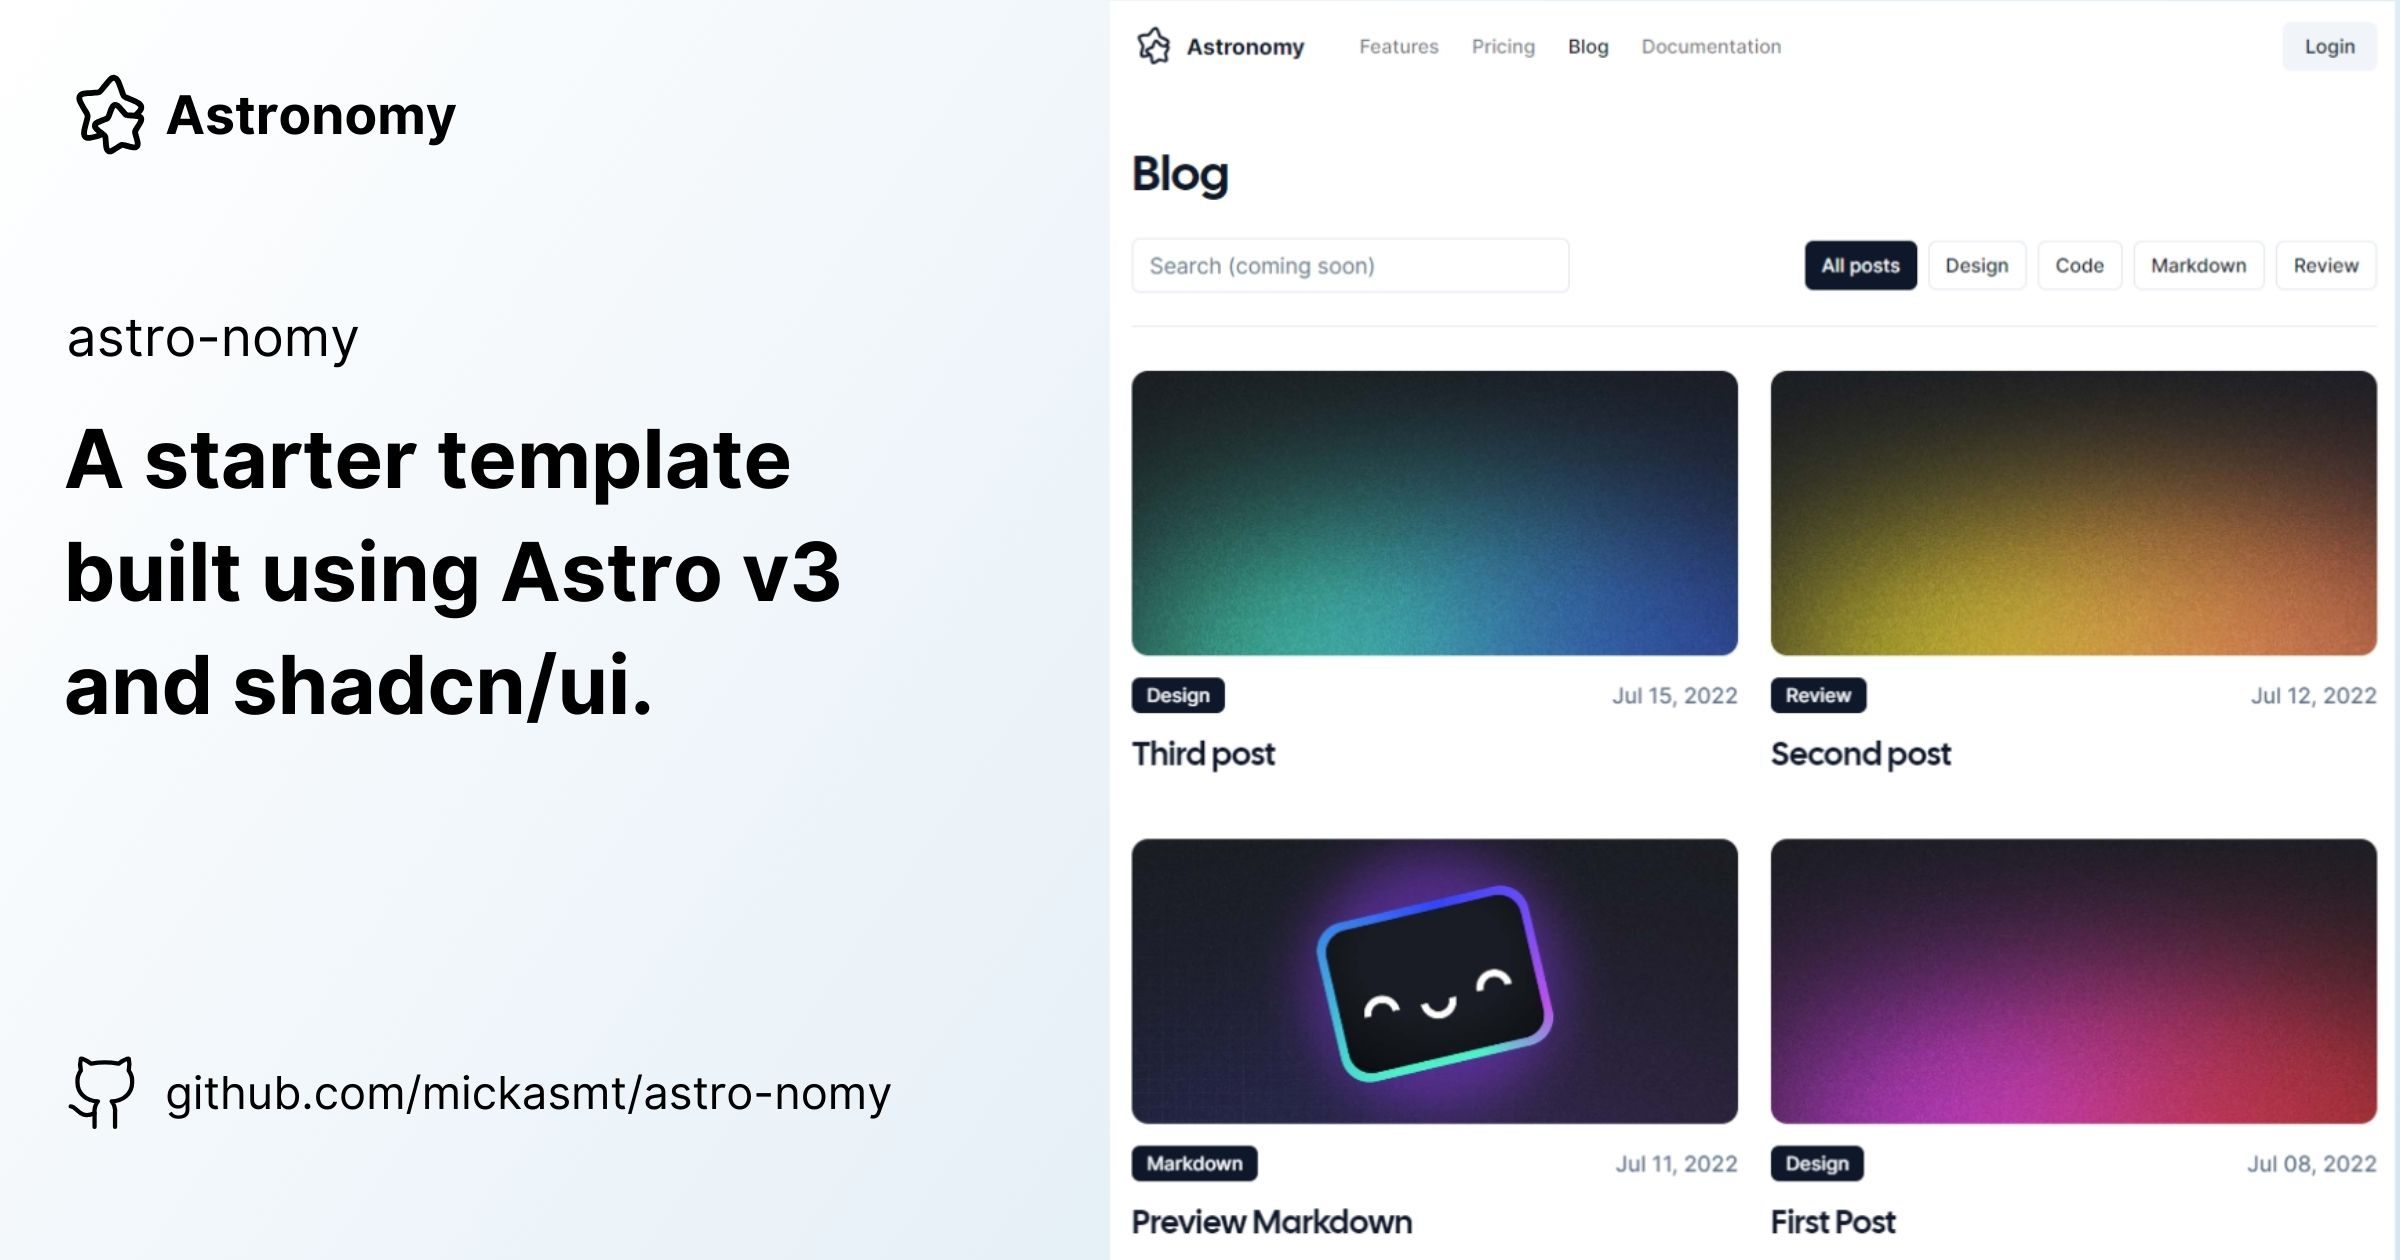
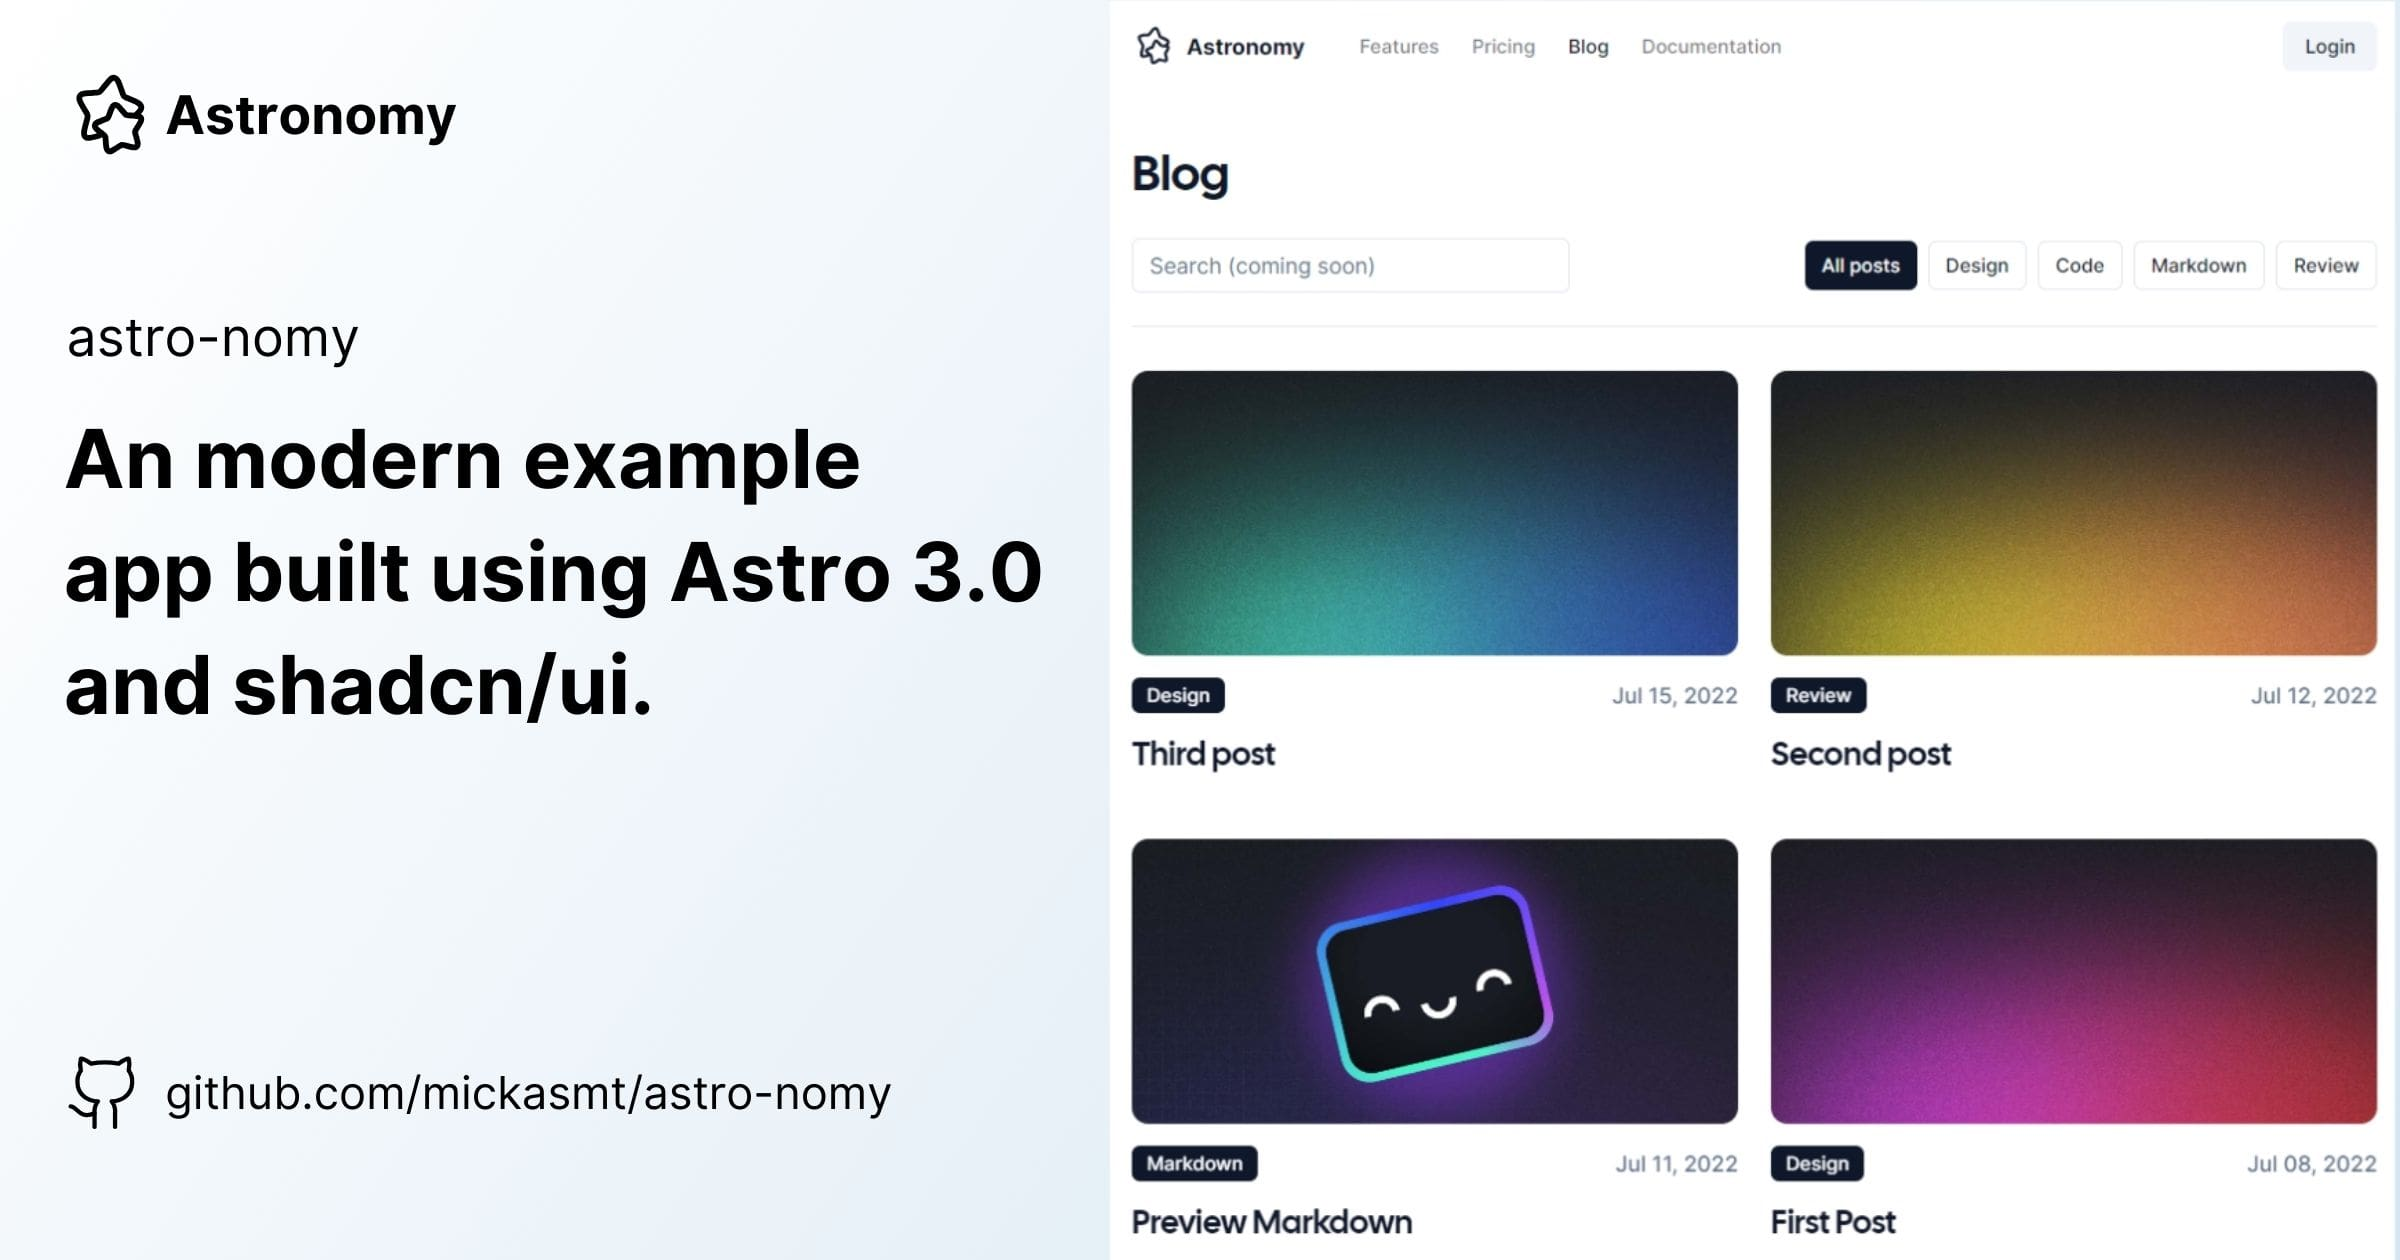
docs: update og & readme/licence

Changed region(s): [[0.0312, 0.4333, 0.4375, 0.4952], [0.0312, 0.3405, 0.375, 0.4024]]

diff --git a/README.md b/README.md
@@ -1,68 +1,99 @@
-# Astro Starter Kit: Blog
+# Astronomy
 
-```
-npm create astro@latest -- --template blog
-```
+An open source application and starter template built using the latest features in Astro v3.
 
-[![Open in StackBlitz](https://developer.stackblitz.com/img/open_in_stackblitz.svg)](https://stackblitz.com/github/withastro/astro/tree/latest/examples/blog)
-[![Open with CodeSandbox](https://assets.codesandbox.io/github/button-edit-lime.svg)](https://codesandbox.io/p/sandbox/github/withastro/astro/tree/latest/examples/blog)
-[![Open in GitHub Codespaces](https://github.com/codespaces/badge.svg)](https://codespaces.new/withastro/astro?devcontainer_path=.devcontainer/blog/devcontainer.json)
+![blog](public/og.jpg)
 
-> 🧑🚀 **Seasoned astronaut?** Delete this file. Have fun!
 
-![blog](https://github.com/withastro/astro/assets/2244813/ff10799f-a816-4703-b967-c78997e8323d)
+> **Warning**
+> This app is a work in progress. 
+> I'm building this in public. You can follow the progress on Twitter [@miickasmt](https://twitter.com/miickasmt).
+> See the roadmap below.
 
-Features:
+## About this project
 
-- ✅ Minimal styling (make it your own!)
-- ✅ 100/100 Lighthouse performance
-- ✅ SEO-friendly with canonical URLs and OpenGraph data
-- ✅ Sitemap support
-- ✅ RSS Feed support
-- ✅ Markdown & MDX support
+This project as an experiment to see how a modern app (with features like authentication, subscriptions, API routes, Markdown, Content Collections ...etc) would work in Astro 3.0 and shadcn/ui.
 
-## 🚀 Project Structure
+> **Warning**
+> I would like to inform you that for the time being, my example app built with Astro.js is still under development and **cannot yet be considered a starter template**.
 
-Inside of your Astro project, you'll see the following folders and files:
+## Project Structure
 
 ```
 ├── public/
+│   └── fonts/
 ├── src/
-│   ├── components/
-│   ├── content/
-│   ├── layouts/
-│   └── pages/
+│   ├── components/
+│   ├── config/
+│   ├── content/
+│   ├── hooks/
+│   ├── icons/
+│   ├── layouts/
+│   ├── lib/
+│   ├── pages/
+│   ├── styles/
+│   └── types/
 ├── astro.config.mjs
 ├── README.md
 ├── package.json
+├── tailwind.config.cjs
 └── tsconfig.json
 ```
 
-Astro looks for `.astro` or `.md` files in the `src/pages/` directory. Each page is exposed as a route based on its file name.
+## Features
 
-There's nothing special about `src/components/`, but that's where we like to put any Astro/React/Vue/Svelte/Preact components.
+- Config files
+- Views Transitions
+- Routing and Layouts
+- React components & hooks
+- UI Components built using **shadcn/ui**
+- Documentation and blog using **MDX** and **Content Collections**
+- Styled using **Tailwind CSS**
+- Validations using **Zod**
+- Written in **TypeScript**
+- Minimal styling (make it your own!)
+- 100/100 Lighthouse performance
 
-The `src/content/` directory contains "collections" of related Markdown and MDX documents. Use `getCollection()` to retrieve posts from `src/content/blog/`, and type-check your frontmatter using an optional schema. See [Astro's Content Collections docs](https://docs.astro.build/en/guides/content-collections/) to learn more.
+*Not implemented yet :*
+- RSS Feed support
+- Sitemap support
+- Data Fetching
+- SEO component 
+- API Routes and Middlewares
+- Authentication using **Auth.js**
+- ORM using **Prisma**
+- Database on **PlanetScale**
+- Subscriptions using **Stripe**
 
-Any static assets, like images, can be placed in the `public/` directory.
+## Roadmap
 
-## 🧞 Commands
+- [x] ~Dark mode~
+- [x] ~Add Markdown & MDX support~
+- [ ] Build **auth pages**
+- [ ] Build **dashboard pages**
+- [ ] Add OG image for blog and others
+- [ ] Add SEO component & metadata 
+- [ ] Subscriptions using Stripe
 
-All commands are run from the root of the project, from a terminal:
 
-| Command                   | Action                                           |
-| :------------------------ | :----------------------------------------------- |
-| `npm install`             | Installs dependencies                            |
-| `npm run dev`             | Starts local dev server at `localhost:4321`      |
-| `npm run build`           | Build your production site to `./dist/`          |
-| `npm run preview`         | Preview your build locally, before deploying     |
-| `npm run astro ...`       | Run CLI commands like `astro add`, `astro check` |
-| `npm run astro -- --help` | Get help using the Astro CLI                     |
+## Running Locally
 
-## 👀 Want to learn more?
+1. Install dependencies using pnpm:
 
-Check out [our documentation](https://docs.astro.build) or jump into our [Discord server](https://astro.build/chat).
+```sh
+pnpm install
+```
+
+2. Start the development server:
+
+```sh
+pnpm run dev
+```
 
 ## Credit
 
-This theme is based off of the lovely [Bear Blog](https://github.com/HermanMartinus/bearblog/).
+This theme is based off of the example app [Taxonomy](https://tx.shadcn.com/) of shadcn.
+
+## License
+
+Licensed under the [MIT license](https://github.com/mickasmt/astro-nomy/blob/main/LICENSE.md).

diff --git a/LICENCE.md b/LICENCE.md
@@ -1,0 +1,21 @@
+MIT License
+
+Copyright (c) 2023 mickasmt
+
+Permission is hereby granted, free of charge, to any person obtaining a copy
+of this software and associated documentation files (the "Software"), to deal
+in the Software without restriction, including without limitation the rights
+to use, copy, modify, merge, publish, distribute, sublicense, and/or sell
+copies of the Software, and to permit persons to whom the Software is
+furnished to do so, subject to the following conditions:
+
+The above copyright notice and this permission notice shall be included in all
+copies or substantial portions of the Software.
+
+THE SOFTWARE IS PROVIDED "AS IS", WITHOUT WARRANTY OF ANY KIND, EXPRESS OR
+IMPLIED, INCLUDING BUT NOT LIMITED TO THE WARRANTIES OF MERCHANTABILITY,
+FITNESS FOR A PARTICULAR PURPOSE AND NONINFRINGEMENT. IN NO EVENT SHALL THE
+AUTHORS OR COPYRIGHT HOLDERS BE LIABLE FOR ANY CLAIM, DAMAGES OR OTHER
+LIABILITY, WHETHER IN AN ACTION OF CONTRACT, TORT OR OTHERWISE, ARISING FROM,
+OUT OF OR IN CONNECTION WITH THE SOFTWARE OR THE USE OR OTHER DEALINGS IN THE
+SOFTWARE.
